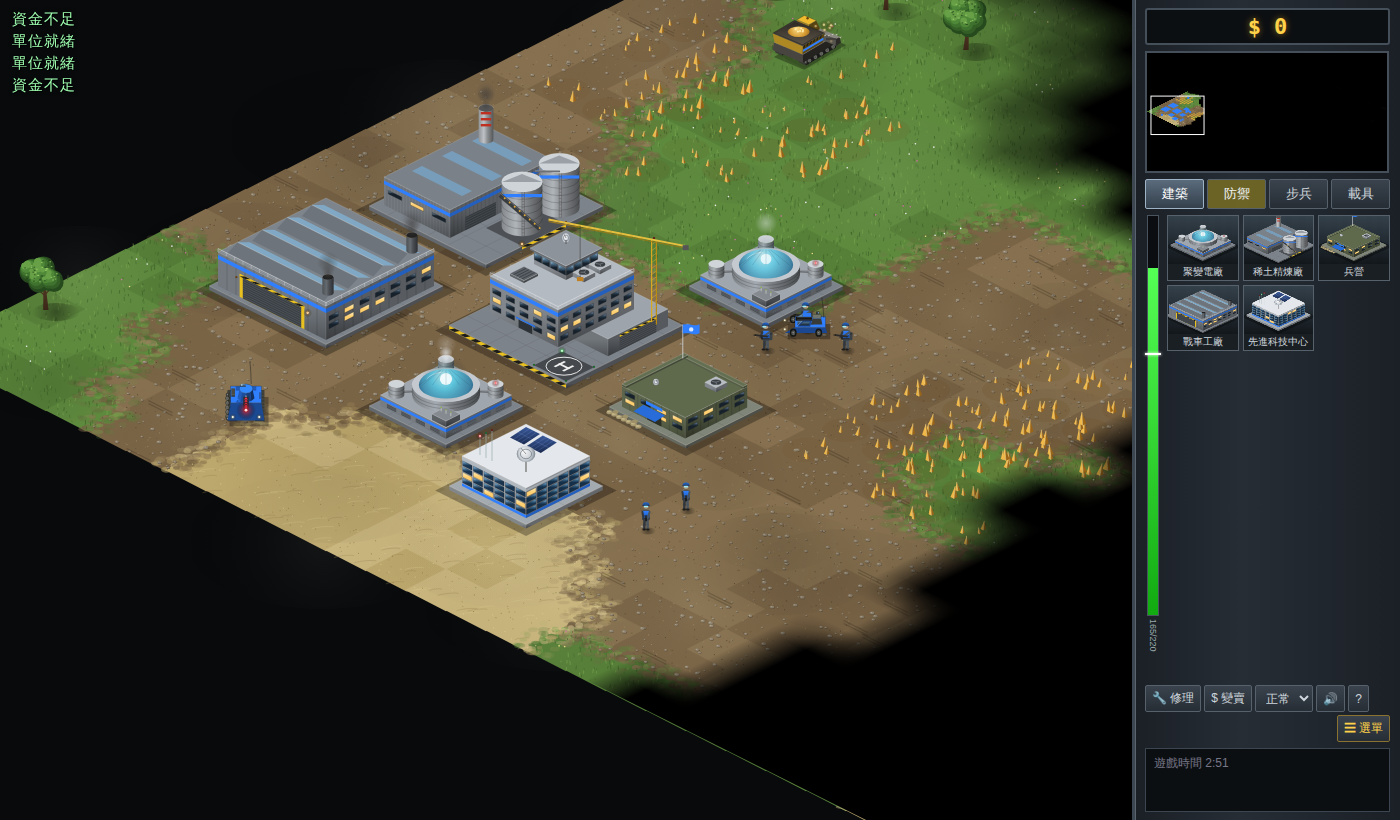
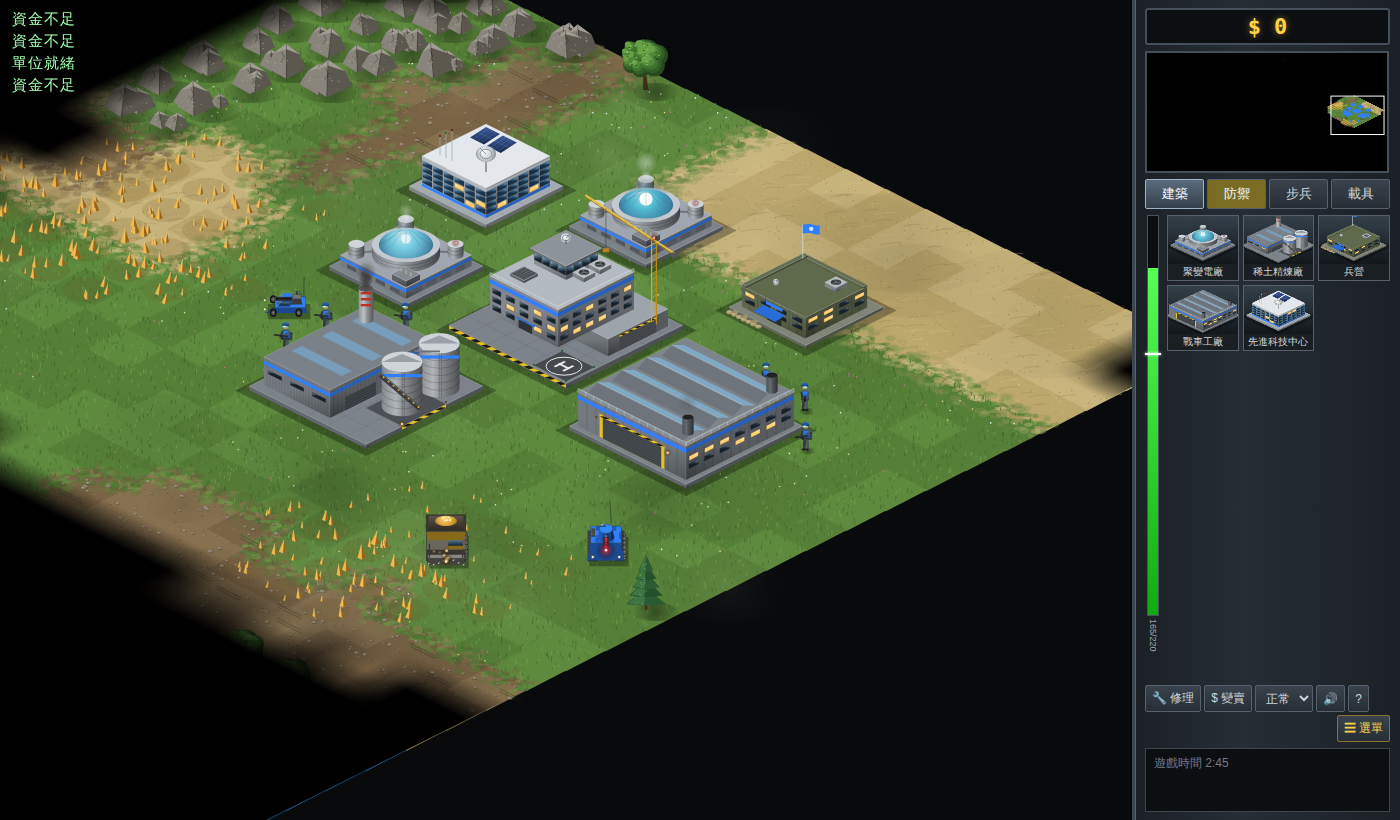
Ming era: quarry large rocks beside each base; redraw silver ore
- Each base gets a cluster of quarryable boulders (Ming era only)
- Boulders shrink as they are mined and vanish when depleted (no rubble)
- Silver ore drawn as veined ore lumps and sycee ingots with glints;
  the central field shows gold

Claude-Session: https://claude.ai/code/session_01TXBFqveJCvJpPNHusf8DYk

diff --git a/steel-dawn-2050.html b/steel-dawn-2050.html
@@ -550,8 +550,8 @@ function makeNoise(rng, cell) {
 }
 
 class GameMap {
-  constructor(seed, nPlayers = 2) {
-    this.w = MAP_W; this.h = MAP_H; this.n = nPlayers;
+  constructor(seed, nPlayers = 2, opts = {}) {
+    this.w = MAP_W; this.h = MAP_H; this.n = nPlayers; this.rockClusters = !!opts.rockClusters;
     const n = MAP_W * MAP_H;
     this.terrain = new Uint8Array(n);
     this.ore = new Float32Array(n);
@@ -561,6 +561,7 @@ class GameMap {
     this.bld = new Int32Array(n);       // 建築佔用 (entity id)
     this.oreFields = [];
     this.res = new Float32Array(n);     // 樹林木材 / 岩石石材
+    this.resMax = new Float32Array(n);
     this.generate(seed);
   }
   idx(x, y) { return y * MAP_W + x; }
@@ -633,10 +634,28 @@ class GameMap {
         }
       }
     };
+    // 明朝時代:每個基地旁放一群可開採的大岩石(在銀礦的另一側)
+    if (this.rockClusters) {
+      for (const s of sc) {
+        const vx = mid.x - s.x, vy = mid.y - s.y, l = Math.hypot(vx, vy);
+        const ux = vx / l, uy = vy / l, px = -uy, py = ux;
+        const rx = clamp(s.x + ux * 2 + px * 8, 3, MAP_W - 4), ry = clamp(s.y + uy * 2 + py * 8, 3, MAP_H - 4);
+        // 交錯排列,讓每顆岩石旁都有空位可以開採
+        const spots = [[0, 0], [2, 0], [0, 2], [2, 2], [1, -1], [-1, 1]];
+        for (const [ox, oy] of spots) {
+          const x = Math.round(rx + ox), y = Math.round(ry + oy);
+          if (!this.inb(x, y) || near(x + 0.5, y + 0.5, 6)) continue;
+          const i = this.idx(x, y);
+          if (this.oreType[i]) continue;
+          this.terrain[i] = T_ROCK;
+        }
+      }
+    }
     for (let i = 0; i < MAP_W * MAP_H; i++) {
       const t = this.terrain[i];
       if (t === T_TREE) this.res[i] = 200 + (this.variant[i] % 120);
       else if (t === T_ROCK) this.res[i] = 420 + (this.variant[i] % 200);
+      this.resMax[i] = this.res[i];
     }
     for (let i = 1; i < sc.length; i++) ensure(sc[0].x, sc[0].y, sc[i].x, sc[i].y);
     for (const f of fields) for (const s of sc) ensure(s.x, s.y, f.x, f.y);
@@ -1090,7 +1109,7 @@ function depleteTile(x, y) {
   m.terrain[i] = wasTree ? T_GRASS : T_DIRT;
   if (R.doodads) R.doodads = R.doodads.filter(d => !(Math.floor(d.x) === x && Math.floor(d.y) === y));
   if (R.doodadAt) R.doodadAt.delete(i);
-  if (R.stumps) R.stumps.push({ x: x + 0.5, y: y + 0.5, wood: wasTree, v: m.variant[i] });
+  if (R.stumps && wasTree) R.stumps.push({ x: x + 0.5, y: y + 0.5, wood: true, v: m.variant[i] });
   sfx(wasTree ? 'treefall' : 'pick', x, y);
 }
 
@@ -1818,7 +1837,7 @@ function newGame(opts) {
   const seed = opts.seed || (Math.random() * 1e9) | 0;
   G.era = ERAS[opts.era] ? opts.era : '2050';
   const era = ERAS[G.era];
-  G.map = new GameMap(seed, era.players);
+  G.map = new GameMap(seed, era.players, { rockClusters: !!era.gather });
   G.entities = []; G.byId = new Map(); G.nextId = 1; G.effects = []; G.projs = []; G.strikes = []; G.reveals = [];
   G.time = 0; G.over = false; G.sel = []; G.groups = {}; G.difficulty = opts.difficulty;
   const fac = era.factions.includes(opts.faction) ? opts.faction : era.factions[0];
@@ -3759,7 +3778,13 @@ function drawDoodad(ctx, d) {
   const s = spriteCached(key, 48, 52, 24, 44, (c, ax, ay) => d.t === T_TREE ? paintTree(c, ax, ay, d.v) : paintRock(c, ax, ay, d.v));
   // 被砍伐時搖晃
   const shake = d.hitT && G.time - d.hitT < 0.18 ? Math.sin((G.time - d.hitT) * 60) * (d.t === T_TREE ? 1.2 : 0.4) : 0;
-  ctx.drawImage(s.cv, sx - s.ax + shake, sy - s.ay, s.w, s.h);
+  // 岩石隨開採逐漸縮小(以底部為基準)
+  let sc = 1;
+  if (d.t === T_ROCK && G.map.resMax) {
+    const i = G.map.idx(Math.floor(d.x), Math.floor(d.y)), mx = G.map.resMax[i];
+    if (mx > 0) sc = 0.35 + 0.65 * clamp(G.map.res[i] / mx, 0, 1);
+  }
+  ctx.drawImage(s.cv, sx - s.ax * sc + shake, sy - s.ay * sc, s.w * sc, s.h * sc);
 }
 function paintTree(c, ax, ay, v) {
   const rng = mulberry32(v * 9973 + 17);
@@ -3846,6 +3871,7 @@ function drawOre(ctx, x0, y0, x1, y1) {
     const v = m.variant[i], amt = m.ore[i] / 800;
     const gem = m.oreType[i] === 2;
     const silver = ERAS[G.era] && ERAS[G.era].silver;
+    if (silver) { drawSilverOre(ctx, cx, cy, v, amt, gem, x, y); continue; }
     const c1 = silver ? (gem ? '#f4cc50' : '#dfe3e8') : gem ? '#6fd8ff' : '#f0b848';
     const c2 = silver ? (gem ? '#9a7418' : '#6e7680') : gem ? '#2a78b0' : '#9a6418';
     const c3 = silver ? '#ffffff' : gem ? '#d8f6ff' : '#ffe8a0';
@@ -3864,6 +3890,51 @@ function drawOre(ctx, x0, y0, x1, y1) {
       line(ctx, F, T, c3, 0.25);
       if (gem) glow(ctx, T[0], T[1] + h * 0.3, 2.5, silver ? '#ffe080' : '#7fe0ff', 0.35 + 0.2 * Math.sin(G.time * 3 + k + v));
     }
+  }
+}
+
+// 明朝銀礦:深色礦石帶銀脈,夾雜銀錠(元寶);中央金礦為金塊與金錠
+function drawSilverOre(ctx, cx, cy, v, amt, gem, tx, ty) {
+  const metal = gem ? ['#f6d860', '#c8962a', '#fff4c0'] : ['#e4e8ee', '#9aa2ac', '#ffffff'];
+  pushA(ctx, 0.22 * Math.min(1, amt + 0.3));
+  ell(ctx, cx, cy, HW * 0.62, HH * 0.62, gem ? '#5a4a20' : '#33363a');
+  popA(ctx);
+  const n = 2 + Math.floor(amt * 4);
+  for (let k = 0; k < n; k++) {
+    const a = hash(v * 7 + k * 53), b = hash(v * 13 + k * 29);
+    const px = cx + (a - b) * HW * 0.7, py = cy + (a + b - 1) * HH * 0.7;
+    const r = (1.8 + hash(v + k * 3) * 1.8) * (0.7 + amt * 0.4);
+    // 礦石塊
+    ell(ctx, px + 0.4, py + 0.3, r * 1.1, r * 0.5, 'rgba(0,0,0,0.3)');
+    poly(ctx, [[px - r, py], [px - r * 0.6, py - r * 0.9], [px + r * 0.3, py - r * 1.05], [px + r, py - r * 0.3], [px + r * 0.7, py + r * 0.3], [px - r * 0.3, py + r * 0.35]], '#55585e');
+    poly(ctx, [[px - r * 0.6, py - r * 0.9], [px + r * 0.3, py - r * 1.05], [px + r * 0.2, py - r * 0.3], [px - r * 0.5, py - r * 0.25]], '#71757b');
+    // 銀脈
+    ctx.strokeStyle = metal[0]; ctx.lineWidth = 0.45;
+    ctx.beginPath(); ctx.moveTo(px - r * 0.7, py - r * 0.2); ctx.lineTo(px - r * 0.1, py - r * 0.55); ctx.lineTo(px + r * 0.6, py - r * 0.35); ctx.stroke();
+    circ(ctx, px - r * 0.1, py - r * 0.55, 0.35, metal[2]);
+  }
+  // 銀錠(元寶)
+  const ingots = 1 + Math.floor(amt * 2.5);
+  for (let k = 0; k < ingots; k++) {
+    const a = hash(v * 31 + k * 17), b = hash(v * 11 + k * 41);
+    const px = cx + (a - b) * HW * 0.5, py = cy + (a + b - 1) * HH * 0.5 + 0.5;
+    ctx.save(); ctx.translate(px, py); ctx.scale(1.35, 1.35); ctx.translate(-px, -py);
+    ell(ctx, px + 0.3, py + 0.4, 2.4, 0.9, 'rgba(0,0,0,0.3)');
+    ctx.fillStyle = metal[1];
+    ctx.beginPath(); ctx.moveTo(px - 2.4, py - 1.6); ctx.quadraticCurveTo(px - 1.6, py + 0.6, px, py + 0.6); ctx.quadraticCurveTo(px + 1.6, py + 0.6, px + 2.4, py - 1.6);
+    ctx.quadraticCurveTo(px, py - 0.6, px - 2.4, py - 1.6); ctx.fill();
+    ctx.fillStyle = metal[0];
+    ctx.beginPath(); ctx.moveTo(px - 2.4, py - 1.6); ctx.quadraticCurveTo(px, py - 0.5, px + 2.4, py - 1.6); ctx.quadraticCurveTo(px, py - 2.4, px - 2.4, py - 1.6); ctx.fill();
+    ell(ctx, px, py - 1.4, 0.9, 0.5, metal[1]);
+    pix(ctx, px - 1.6, py - 1.9, 0.8, 0.3, metal[2]);
+    ctx.restore();
+  }
+  // 閃光
+  const ph = (G.time * 0.7 + hash(tx * 7 + ty * 13) * 6) % 3;
+  if (ph < 0.25) {
+    const gx = cx + (hash(v) - 0.5) * HW * 0.6, gy = cy - 2 + (hash(v * 3) - 0.5) * HH * 0.6, s = Math.sin(ph / 0.25 * Math.PI) * 2.2;
+    line(ctx, [gx - s, gy], [gx + s, gy], metal[2], 0.35); line(ctx, [gx, gy - s], [gx, gy + s], metal[2], 0.35);
+    glow(ctx, gx, gy, 2.5, metal[0], 0.6);
   }
 }
 </script>

diff --git a/js/models.js b/js/models.js
@@ -869,7 +869,13 @@ function drawDoodad(ctx, d) {
   const s = spriteCached(key, 48, 52, 24, 44, (c, ax, ay) => d.t === T_TREE ? paintTree(c, ax, ay, d.v) : paintRock(c, ax, ay, d.v));
   // 被砍伐時搖晃
   const shake = d.hitT && G.time - d.hitT < 0.18 ? Math.sin((G.time - d.hitT) * 60) * (d.t === T_TREE ? 1.2 : 0.4) : 0;
-  ctx.drawImage(s.cv, sx - s.ax + shake, sy - s.ay, s.w, s.h);
+  // 岩石隨開採逐漸縮小(以底部為基準)
+  let sc = 1;
+  if (d.t === T_ROCK && G.map.resMax) {
+    const i = G.map.idx(Math.floor(d.x), Math.floor(d.y)), mx = G.map.resMax[i];
+    if (mx > 0) sc = 0.35 + 0.65 * clamp(G.map.res[i] / mx, 0, 1);
+  }
+  ctx.drawImage(s.cv, sx - s.ax * sc + shake, sy - s.ay * sc, s.w * sc, s.h * sc);
 }
 function paintTree(c, ax, ay, v) {
   const rng = mulberry32(v * 9973 + 17);
@@ -956,6 +962,7 @@ function drawOre(ctx, x0, y0, x1, y1) {
     const v = m.variant[i], amt = m.ore[i] / 800;
     const gem = m.oreType[i] === 2;
     const silver = ERAS[G.era] && ERAS[G.era].silver;
+    if (silver) { drawSilverOre(ctx, cx, cy, v, amt, gem, x, y); continue; }
     const c1 = silver ? (gem ? '#f4cc50' : '#dfe3e8') : gem ? '#6fd8ff' : '#f0b848';
     const c2 = silver ? (gem ? '#9a7418' : '#6e7680') : gem ? '#2a78b0' : '#9a6418';
     const c3 = silver ? '#ffffff' : gem ? '#d8f6ff' : '#ffe8a0';
@@ -974,5 +981,50 @@ function drawOre(ctx, x0, y0, x1, y1) {
       line(ctx, F, T, c3, 0.25);
       if (gem) glow(ctx, T[0], T[1] + h * 0.3, 2.5, silver ? '#ffe080' : '#7fe0ff', 0.35 + 0.2 * Math.sin(G.time * 3 + k + v));
     }
+  }
+}
+
+// 明朝銀礦:深色礦石帶銀脈,夾雜銀錠(元寶);中央金礦為金塊與金錠
+function drawSilverOre(ctx, cx, cy, v, amt, gem, tx, ty) {
+  const metal = gem ? ['#f6d860', '#c8962a', '#fff4c0'] : ['#e4e8ee', '#9aa2ac', '#ffffff'];
+  pushA(ctx, 0.22 * Math.min(1, amt + 0.3));
+  ell(ctx, cx, cy, HW * 0.62, HH * 0.62, gem ? '#5a4a20' : '#33363a');
+  popA(ctx);
+  const n = 2 + Math.floor(amt * 4);
+  for (let k = 0; k < n; k++) {
+    const a = hash(v * 7 + k * 53), b = hash(v * 13 + k * 29);
+    const px = cx + (a - b) * HW * 0.7, py = cy + (a + b - 1) * HH * 0.7;
+    const r = (1.8 + hash(v + k * 3) * 1.8) * (0.7 + amt * 0.4);
+    // 礦石塊
+    ell(ctx, px + 0.4, py + 0.3, r * 1.1, r * 0.5, 'rgba(0,0,0,0.3)');
+    poly(ctx, [[px - r, py], [px - r * 0.6, py - r * 0.9], [px + r * 0.3, py - r * 1.05], [px + r, py - r * 0.3], [px + r * 0.7, py + r * 0.3], [px - r * 0.3, py + r * 0.35]], '#55585e');
+    poly(ctx, [[px - r * 0.6, py - r * 0.9], [px + r * 0.3, py - r * 1.05], [px + r * 0.2, py - r * 0.3], [px - r * 0.5, py - r * 0.25]], '#71757b');
+    // 銀脈
+    ctx.strokeStyle = metal[0]; ctx.lineWidth = 0.45;
+    ctx.beginPath(); ctx.moveTo(px - r * 0.7, py - r * 0.2); ctx.lineTo(px - r * 0.1, py - r * 0.55); ctx.lineTo(px + r * 0.6, py - r * 0.35); ctx.stroke();
+    circ(ctx, px - r * 0.1, py - r * 0.55, 0.35, metal[2]);
+  }
+  // 銀錠(元寶)
+  const ingots = 1 + Math.floor(amt * 2.5);
+  for (let k = 0; k < ingots; k++) {
+    const a = hash(v * 31 + k * 17), b = hash(v * 11 + k * 41);
+    const px = cx + (a - b) * HW * 0.5, py = cy + (a + b - 1) * HH * 0.5 + 0.5;
+    ctx.save(); ctx.translate(px, py); ctx.scale(1.35, 1.35); ctx.translate(-px, -py);
+    ell(ctx, px + 0.3, py + 0.4, 2.4, 0.9, 'rgba(0,0,0,0.3)');
+    ctx.fillStyle = metal[1];
+    ctx.beginPath(); ctx.moveTo(px - 2.4, py - 1.6); ctx.quadraticCurveTo(px - 1.6, py + 0.6, px, py + 0.6); ctx.quadraticCurveTo(px + 1.6, py + 0.6, px + 2.4, py - 1.6);
+    ctx.quadraticCurveTo(px, py - 0.6, px - 2.4, py - 1.6); ctx.fill();
+    ctx.fillStyle = metal[0];
+    ctx.beginPath(); ctx.moveTo(px - 2.4, py - 1.6); ctx.quadraticCurveTo(px, py - 0.5, px + 2.4, py - 1.6); ctx.quadraticCurveTo(px, py - 2.4, px - 2.4, py - 1.6); ctx.fill();
+    ell(ctx, px, py - 1.4, 0.9, 0.5, metal[1]);
+    pix(ctx, px - 1.6, py - 1.9, 0.8, 0.3, metal[2]);
+    ctx.restore();
+  }
+  // 閃光
+  const ph = (G.time * 0.7 + hash(tx * 7 + ty * 13) * 6) % 3;
+  if (ph < 0.25) {
+    const gx = cx + (hash(v) - 0.5) * HW * 0.6, gy = cy - 2 + (hash(v * 3) - 0.5) * HH * 0.6, s = Math.sin(ph / 0.25 * Math.PI) * 2.2;
+    line(ctx, [gx - s, gy], [gx + s, gy], metal[2], 0.35); line(ctx, [gx, gy - s], [gx, gy + s], metal[2], 0.35);
+    glow(ctx, gx, gy, 2.5, metal[0], 0.6);
   }
 }

diff --git a/js/map.js b/js/map.js
@@ -24,8 +24,8 @@ function makeNoise(rng, cell) {
 }
 
 class GameMap {
-  constructor(seed, nPlayers = 2) {
-    this.w = MAP_W; this.h = MAP_H; this.n = nPlayers;
+  constructor(seed, nPlayers = 2, opts = {}) {
+    this.w = MAP_W; this.h = MAP_H; this.n = nPlayers; this.rockClusters = !!opts.rockClusters;
     const n = MAP_W * MAP_H;
     this.terrain = new Uint8Array(n);
     this.ore = new Float32Array(n);
@@ -35,6 +35,7 @@ class GameMap {
     this.bld = new Int32Array(n);       // 建築佔用 (entity id)
     this.oreFields = [];
     this.res = new Float32Array(n);     // 樹林木材 / 岩石石材
+    this.resMax = new Float32Array(n);
     this.generate(seed);
   }
   idx(x, y) { return y * MAP_W + x; }
@@ -107,10 +108,28 @@ class GameMap {
         }
       }
     };
+    // 明朝時代:每個基地旁放一群可開採的大岩石(在銀礦的另一側)
+    if (this.rockClusters) {
+      for (const s of sc) {
+        const vx = mid.x - s.x, vy = mid.y - s.y, l = Math.hypot(vx, vy);
+        const ux = vx / l, uy = vy / l, px = -uy, py = ux;
+        const rx = clamp(s.x + ux * 2 + px * 8, 3, MAP_W - 4), ry = clamp(s.y + uy * 2 + py * 8, 3, MAP_H - 4);
+        // 交錯排列,讓每顆岩石旁都有空位可以開採
+        const spots = [[0, 0], [2, 0], [0, 2], [2, 2], [1, -1], [-1, 1]];
+        for (const [ox, oy] of spots) {
+          const x = Math.round(rx + ox), y = Math.round(ry + oy);
+          if (!this.inb(x, y) || near(x + 0.5, y + 0.5, 6)) continue;
+          const i = this.idx(x, y);
+          if (this.oreType[i]) continue;
+          this.terrain[i] = T_ROCK;
+        }
+      }
+    }
     for (let i = 0; i < MAP_W * MAP_H; i++) {
       const t = this.terrain[i];
       if (t === T_TREE) this.res[i] = 200 + (this.variant[i] % 120);
       else if (t === T_ROCK) this.res[i] = 420 + (this.variant[i] % 200);
+      this.resMax[i] = this.res[i];
     }
     for (let i = 1; i < sc.length; i++) ensure(sc[0].x, sc[0].y, sc[i].x, sc[i].y);
     for (const f of fields) for (const s of sc) ensure(s.x, s.y, f.x, f.y);

diff --git a/js/game.js b/js/game.js
@@ -208,7 +208,7 @@ function depleteTile(x, y) {
   m.terrain[i] = wasTree ? T_GRASS : T_DIRT;
   if (R.doodads) R.doodads = R.doodads.filter(d => !(Math.floor(d.x) === x && Math.floor(d.y) === y));
   if (R.doodadAt) R.doodadAt.delete(i);
-  if (R.stumps) R.stumps.push({ x: x + 0.5, y: y + 0.5, wood: wasTree, v: m.variant[i] });
+  if (R.stumps && wasTree) R.stumps.push({ x: x + 0.5, y: y + 0.5, wood: true, v: m.variant[i] });
   sfx(wasTree ? 'treefall' : 'pick', x, y);
 }
 
@@ -936,7 +936,7 @@ function newGame(opts) {
   const seed = opts.seed || (Math.random() * 1e9) | 0;
   G.era = ERAS[opts.era] ? opts.era : '2050';
   const era = ERAS[G.era];
-  G.map = new GameMap(seed, era.players);
+  G.map = new GameMap(seed, era.players, { rockClusters: !!era.gather });
   G.entities = []; G.byId = new Map(); G.nextId = 1; G.effects = []; G.projs = []; G.strikes = []; G.reveals = [];
   G.time = 0; G.over = false; G.sel = []; G.groups = {}; G.difficulty = opts.difficulty;
   const fac = era.factions.includes(opts.faction) ? opts.faction : era.factions[0];

diff --git a/README.md b/README.md
@@ -61,7 +61,7 @@ js/main.js      主迴圈
 ## 時代選擇:1592 壬辰之役(明朝)
 主選單可切換年代。明朝時代為**三國混戰**(玩家 + 兩個電腦,電腦之間也會互相攻擊),電力改為糧草。
 
-**資源採集**:運輸牛車可以採集銀礦、砍樹取木材、採岩石取石材,運回資源集散所(明:轉運所、日:蔵屋敷、朝:物資庫)後都換算成銀兩。銀礦效率最高、會再生;木材與石材採完就消失,樹林砍光後會留下樹樁並開出新的通道。每輛牛車輪流偏好不同資源,也可以右鍵點樹林或岩石指定採集。
+**資源採集**:運輸牛車可以採集銀礦、砍樹取木材、採岩石取石材,運回資源集散所(明:轉運所、日:蔵屋敷、朝:物資庫)後都換算成銀兩。銀礦效率最高、會再生;木材與石材採完就消失,樹林砍光後會留下樹樁並開出新的通道;大岩石會隨開採逐漸縮小,採完後完全消失。每個基地旁都有一群可開採的大岩石。銀礦畫成帶銀脈的礦石與銀錠(中央為金礦)。每輛牛車輪流偏好不同資源,也可以右鍵點樹林或岩石指定採集。
 
 | 陣營 | 步兵 | 騎兵/車 | 重兵器 | 防禦塔 | 奇兵(超級武器) |
 |---|---|---|---|---|---|
